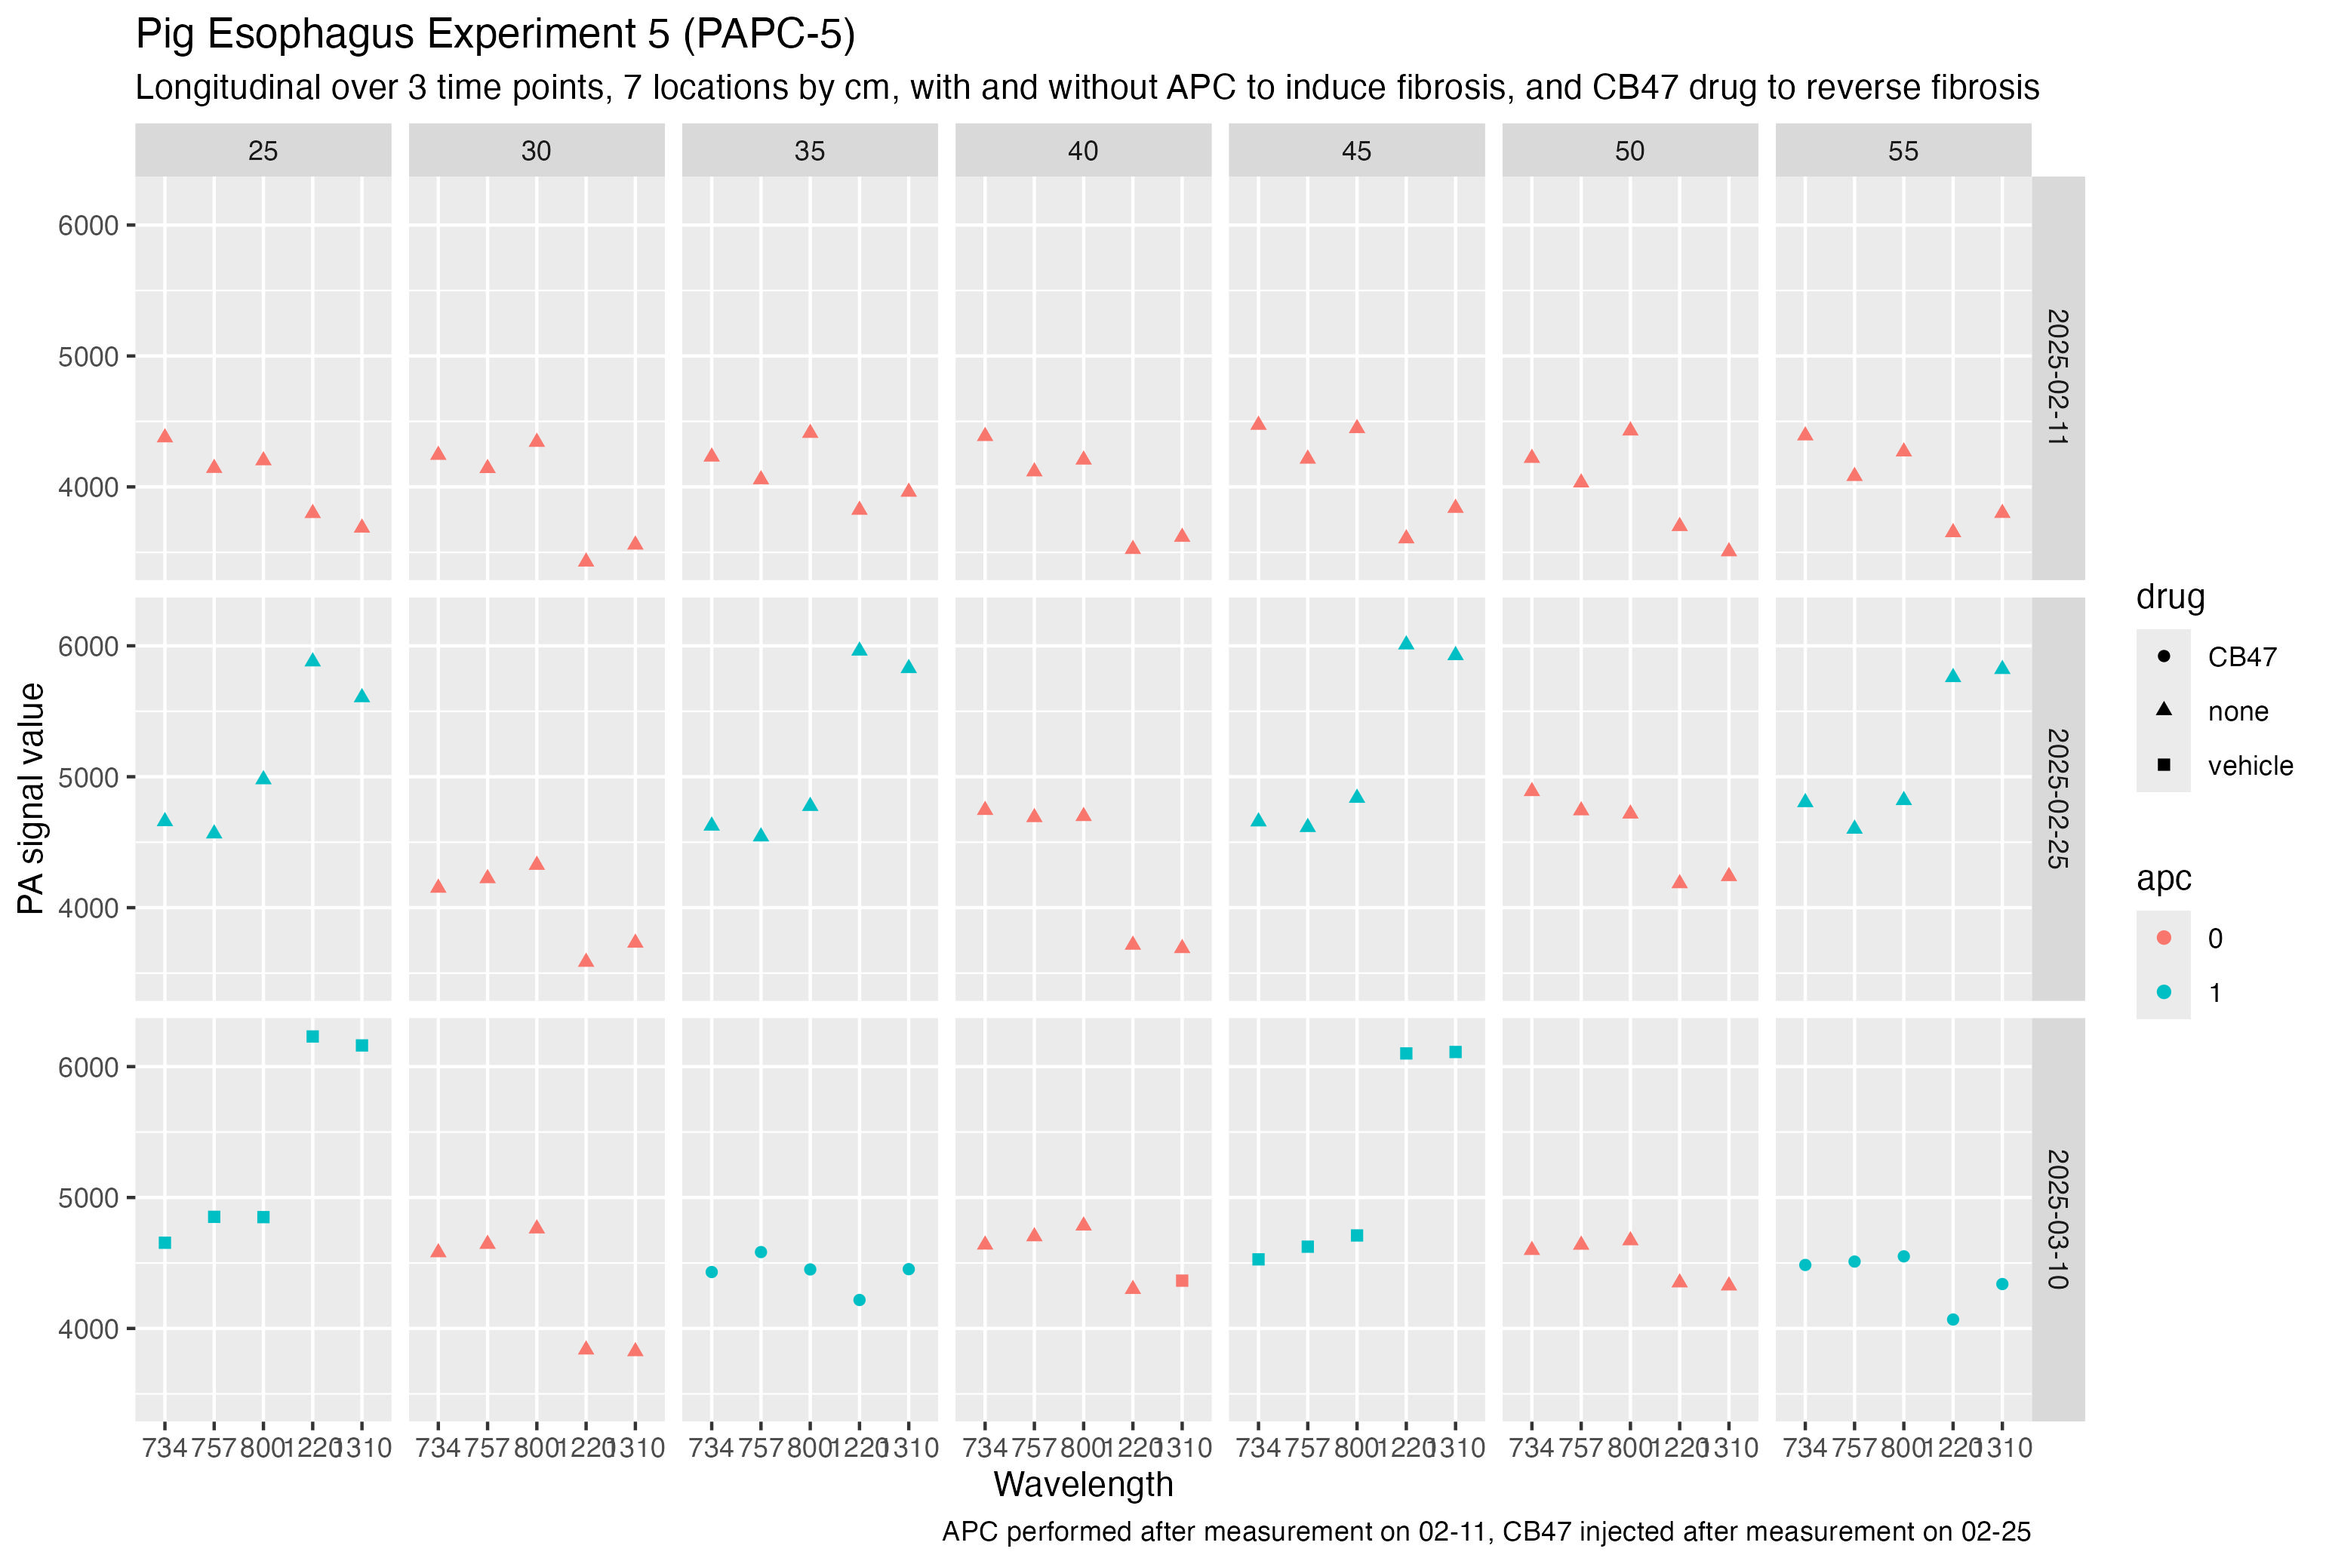
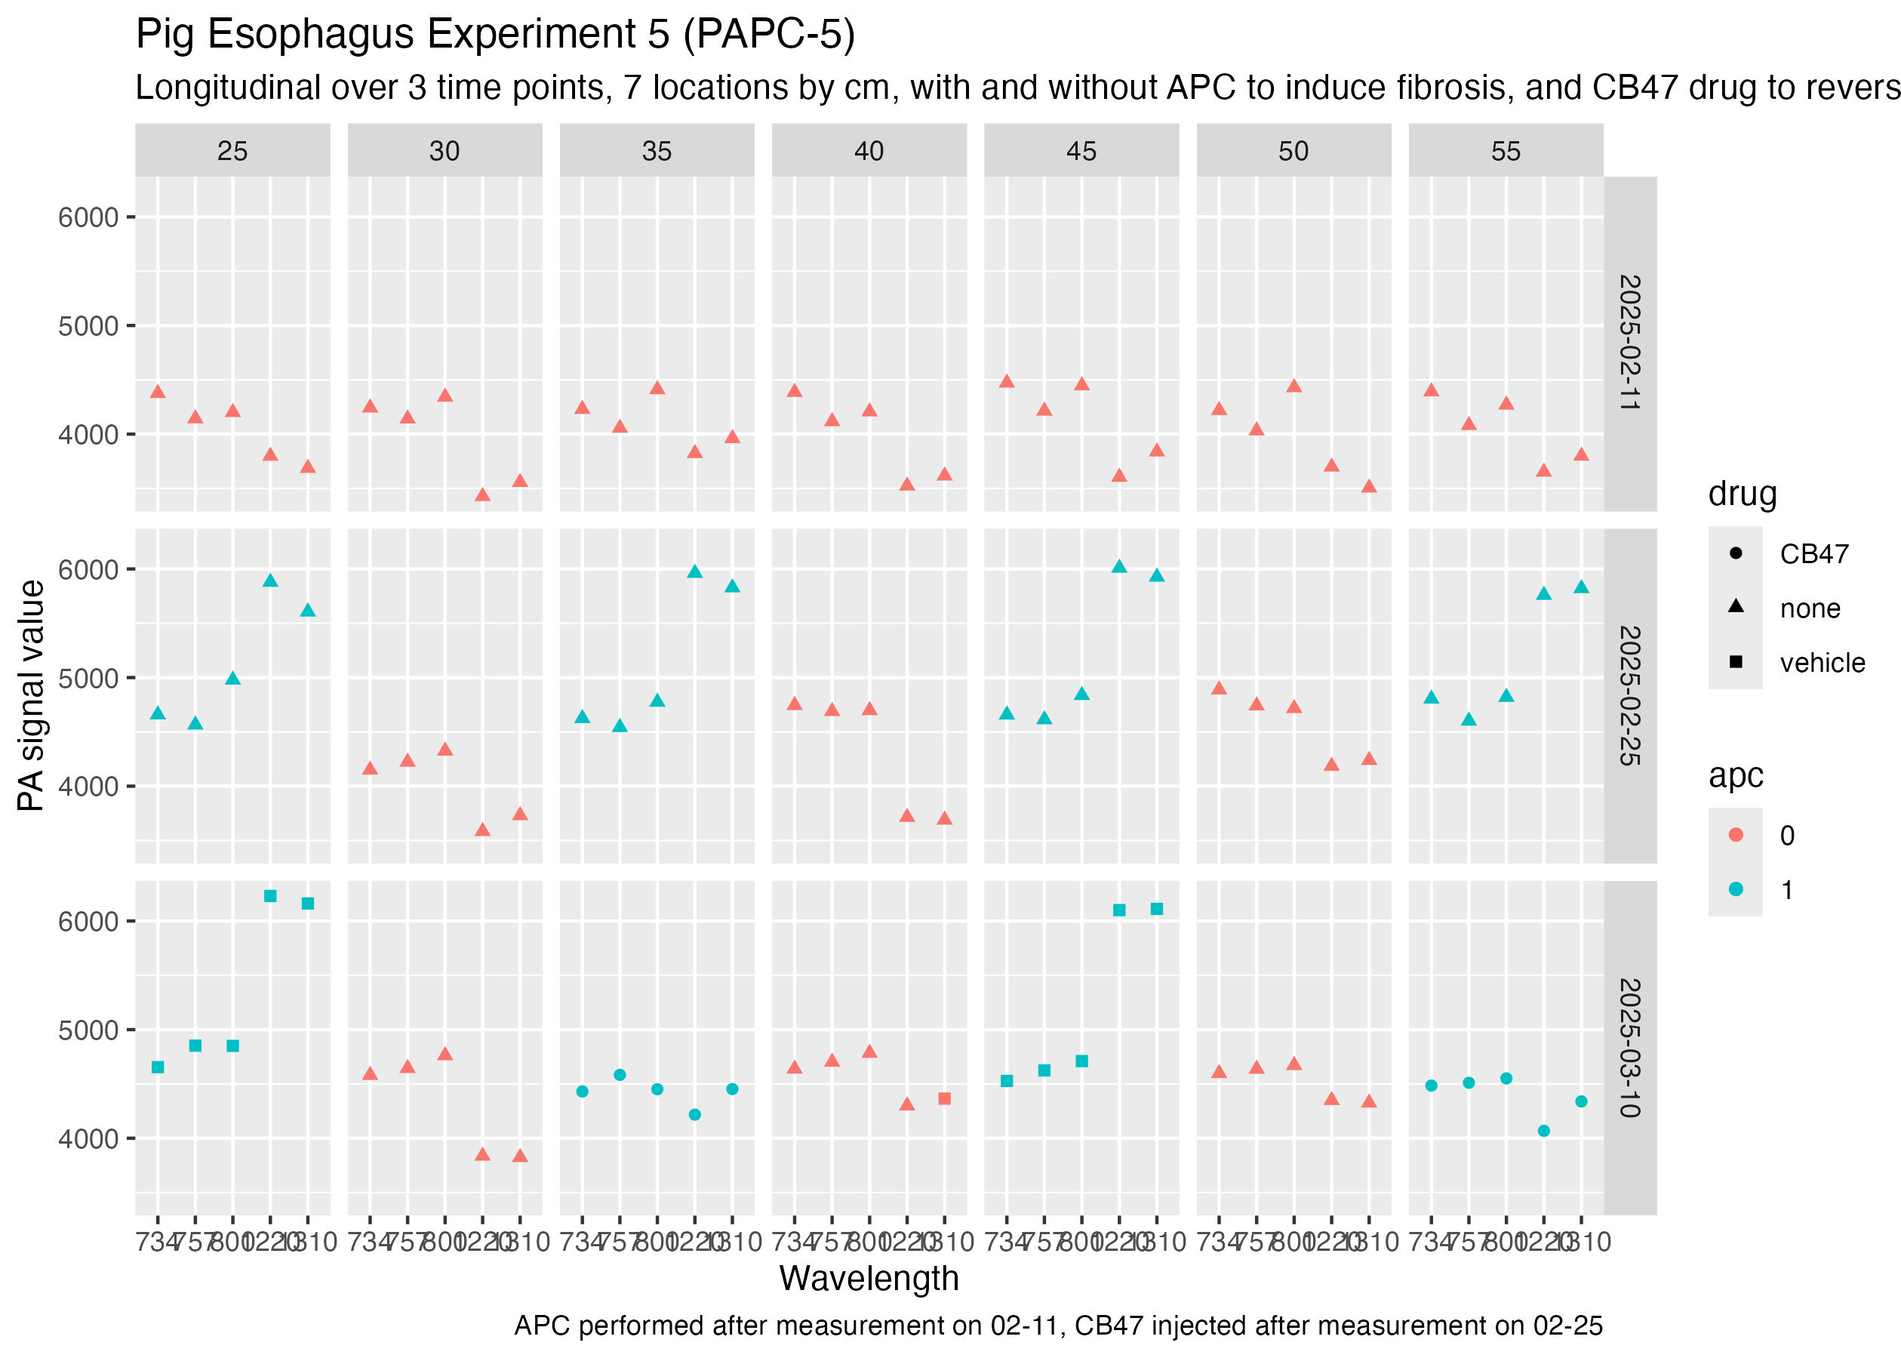
fixed up colors

diff --git a/pig_pa_results.html b/pig_pa_results.html
@@ -155,15 +155,18 @@ The following objects are masked from 'package:stats':
 <span id="cb9-9"><a href="#cb9-9" aria-hidden="true" tabindex="-1"></a>  <span class="fu">rename</span>(<span class="at">value =</span> measurement_value) <span class="sc">|&gt;</span> </span>
 <span id="cb9-10"><a href="#cb9-10" aria-hidden="true" tabindex="-1"></a>  <span class="fu">mutate</span>(<span class="at">apc =</span> <span class="fu">factor</span>(treated)) <span class="sc">|&gt;</span> </span>
 <span id="cb9-11"><a href="#cb9-11" aria-hidden="true" tabindex="-1"></a>  <span class="fu">mutate</span>(<span class="at">date =</span> lubridate<span class="sc">::</span><span class="fu">ymd</span>(date)) <span class="sc">|&gt;</span> </span>
-<span id="cb9-12"><a href="#cb9-12" aria-hidden="true" tabindex="-1"></a>  <span class="fu">select</span>(date, site_cm, apc, wavelength, drug, value) <span class="sc">|&gt;</span> </span>
-<span id="cb9-13"><a href="#cb9-13" aria-hidden="true" tabindex="-1"></a>  <span class="fu">ggplot</span>(<span class="fu">aes</span>(<span class="at">x =</span> <span class="fu">factor</span>(wavelength), <span class="at">y =</span> <span class="fu">as.numeric</span>(value), </span>
-<span id="cb9-14"><a href="#cb9-14" aria-hidden="true" tabindex="-1"></a>             <span class="at">color =</span> apc, <span class="at">shape =</span> drug)) <span class="sc">+</span> </span>
-<span id="cb9-15"><a href="#cb9-15" aria-hidden="true" tabindex="-1"></a>  <span class="fu">geom_point</span>() <span class="sc">+</span></span>
-<span id="cb9-16"><a href="#cb9-16" aria-hidden="true" tabindex="-1"></a>  <span class="fu">facet_grid</span>(date <span class="sc">~</span> site_cm) <span class="sc">+</span></span>
-<span id="cb9-17"><a href="#cb9-17" aria-hidden="true" tabindex="-1"></a>  <span class="fu">labs</span>(<span class="at">title =</span> <span class="st">"Pig Esophagus Experiment 5 (PAPC-5)"</span>,</span>
-<span id="cb9-18"><a href="#cb9-18" aria-hidden="true" tabindex="-1"></a>       <span class="at">subtitle =</span> <span class="st">"Longitudinal over 3 time points, 7 locations by cm, with and without APC to induce fibrosis, and CB47 drug to reverse fibrosis"</span>,</span>
-<span id="cb9-19"><a href="#cb9-19" aria-hidden="true" tabindex="-1"></a>       <span class="at">x =</span> <span class="st">"Wavelength"</span>, <span class="at">y =</span> <span class="st">"PA signal value"</span>,</span>
-<span id="cb9-20"><a href="#cb9-20" aria-hidden="true" tabindex="-1"></a>       <span class="at">caption =</span> <span class="st">"APC performed after measurement on 02-11, CB47 injected after measurement on 02-25"</span> )</span></code><button title="Copy to Clipboard" class="code-copy-button"><i class="bi"></i></button></pre></div>
+<span id="cb9-12"><a href="#cb9-12" aria-hidden="true" tabindex="-1"></a>  <span class="fu">select</span>(date, site_cm, apc, wavelength, drug, value) <span class="ot">-&gt;</span></span>
+<span id="cb9-13"><a href="#cb9-13" aria-hidden="true" tabindex="-1"></a>clean_pig_data</span>
+<span id="cb9-14"><a href="#cb9-14" aria-hidden="true" tabindex="-1"></a></span>
+<span id="cb9-15"><a href="#cb9-15" aria-hidden="true" tabindex="-1"></a>clean_pig_data <span class="sc">|&gt;</span> </span>
+<span id="cb9-16"><a href="#cb9-16" aria-hidden="true" tabindex="-1"></a>  <span class="fu">ggplot</span>(<span class="fu">aes</span>(<span class="at">x =</span> <span class="fu">factor</span>(wavelength), <span class="at">y =</span> <span class="fu">as.numeric</span>(value), </span>
+<span id="cb9-17"><a href="#cb9-17" aria-hidden="true" tabindex="-1"></a>             <span class="at">color =</span> apc, <span class="at">shape =</span> drug)) <span class="sc">+</span> </span>
+<span id="cb9-18"><a href="#cb9-18" aria-hidden="true" tabindex="-1"></a>  <span class="fu">geom_point</span>() <span class="sc">+</span></span>
+<span id="cb9-19"><a href="#cb9-19" aria-hidden="true" tabindex="-1"></a>  <span class="fu">facet_grid</span>(date <span class="sc">~</span> site_cm) <span class="sc">+</span></span>
+<span id="cb9-20"><a href="#cb9-20" aria-hidden="true" tabindex="-1"></a>  <span class="fu">labs</span>(<span class="at">title =</span> <span class="st">"Pig Esophagus Experiment 5 (PAPC-5)"</span>,</span>
+<span id="cb9-21"><a href="#cb9-21" aria-hidden="true" tabindex="-1"></a>       <span class="at">subtitle =</span> <span class="st">"Longitudinal over 3 time points, 7 locations by cm, with and without APC to induce fibrosis, and CB47 drug to reverse fibrosis"</span>,</span>
+<span id="cb9-22"><a href="#cb9-22" aria-hidden="true" tabindex="-1"></a>       <span class="at">x =</span> <span class="st">"Wavelength"</span>, <span class="at">y =</span> <span class="st">"PA signal value"</span>,</span>
+<span id="cb9-23"><a href="#cb9-23" aria-hidden="true" tabindex="-1"></a>       <span class="at">caption =</span> <span class="st">"APC performed after measurement on 02-11, CB47 injected after measurement on 02-25"</span> )</span></code><button title="Copy to Clipboard" class="code-copy-button"><i class="bi"></i></button></pre></div>
 <div class="cell-output-display">
 <div>
 <figure class="figure">
@@ -183,6 +186,37 @@ The following objects are masked from 'package:stats':
 </div>
 </div>
 <p>The <code>echo: false</code> option disables the printing of code (only output is displayed).</p>
+<div class="cell">
+<div class="sourceCode cell-code" id="cb13"><pre class="sourceCode r code-with-copy"><code class="sourceCode r"><span id="cb13-1"><a href="#cb13-1" aria-hidden="true" tabindex="-1"></a>clean_pig_data <span class="sc">|&gt;</span> </span>
+<span id="cb13-2"><a href="#cb13-2" aria-hidden="true" tabindex="-1"></a>  <span class="fu">filter</span>(site_cm <span class="sc">==</span> <span class="dv">35</span> <span class="sc">|</span> site_cm <span class="sc">==</span> <span class="dv">45</span>) <span class="sc">|&gt;</span> </span>
+<span id="cb13-3"><a href="#cb13-3" aria-hidden="true" tabindex="-1"></a>  <span class="fu">filter</span>(wavelength <span class="sc">==</span> <span class="dv">1310</span>) <span class="sc">|&gt;</span>  </span>
+<span id="cb13-4"><a href="#cb13-4" aria-hidden="true" tabindex="-1"></a>  <span class="fu">mutate</span>(<span class="at">week =</span> <span class="fu">case_when</span>(date <span class="sc">==</span> <span class="st">'2025-02-11'</span> <span class="sc">~</span> <span class="dv">0</span>, date <span class="sc">==</span> <span class="st">'2025-02-25'</span> <span class="sc">~</span> <span class="dv">2</span>, <span class="cn">TRUE</span> <span class="sc">~</span> <span class="dv">4</span>)) <span class="sc">|&gt;</span> </span>
+<span id="cb13-5"><a href="#cb13-5" aria-hidden="true" tabindex="-1"></a>  <span class="fu">ggplot</span>(<span class="fu">aes</span>(<span class="at">x =</span> <span class="fu">as_factor</span>(week), <span class="at">y =</span> <span class="fu">as.numeric</span>(value), <span class="at">fill =</span> <span class="fu">fct_rev</span>(<span class="fu">as_factor</span>(site_cm)))) <span class="sc">+</span> <span class="fu">geom_col</span>(<span class="at">position =</span> <span class="st">'dodge2'</span>) <span class="sc">+</span></span>
+<span id="cb13-6"><a href="#cb13-6" aria-hidden="true" tabindex="-1"></a>  <span class="fu">labs</span>(<span class="at">y =</span> <span class="st">"Collagen in Wall"</span>,</span>
+<span id="cb13-7"><a href="#cb13-7" aria-hidden="true" tabindex="-1"></a>       <span class="at">x =</span> <span class="st">"Week"</span>,</span>
+<span id="cb13-8"><a href="#cb13-8" aria-hidden="true" tabindex="-1"></a>       <span class="at">title =</span> <span class="st">"Effect of APC on Pig Esophageal Fibrosis and</span><span class="sc">\n</span><span class="st">Reversibility with CB47 Stricture Injection"</span>) <span class="sc">+</span></span>
+<span id="cb13-9"><a href="#cb13-9" aria-hidden="true" tabindex="-1"></a>  <span class="fu">annotate</span>(<span class="st">"text"</span>, <span class="at">x=</span><span class="dv">1</span>, <span class="at">y=</span><span class="dv">4200</span>, <span class="at">label =</span> <span class="st">"Before Treatment"</span>) <span class="sc">+</span></span>
+<span id="cb13-10"><a href="#cb13-10" aria-hidden="true" tabindex="-1"></a>  <span class="fu">annotate</span>(<span class="st">"text"</span>, <span class="at">x=</span><span class="dv">2</span>, <span class="at">y=</span><span class="dv">6100</span>, <span class="at">label =</span> <span class="st">"After Fibrosis"</span>) <span class="sc">+</span></span>
+<span id="cb13-11"><a href="#cb13-11" aria-hidden="true" tabindex="-1"></a>  <span class="fu">annotate</span>(<span class="st">"text"</span>, <span class="at">x=</span><span class="dv">3</span>, <span class="at">y=</span><span class="dv">6800</span>, <span class="at">label =</span> <span class="st">"After Drug Treatment"</span>) <span class="sc">+</span></span>
+<span id="cb13-12"><a href="#cb13-12" aria-hidden="true" tabindex="-1"></a>  <span class="fu">annotate</span>(<span class="st">"text"</span>, <span class="at">x=</span><span class="fl">3.24</span>, <span class="at">y=</span><span class="dv">4650</span>, <span class="at">label =</span> <span class="st">"CB47 Treatment"</span>) <span class="sc">+</span></span>
+<span id="cb13-13"><a href="#cb13-13" aria-hidden="true" tabindex="-1"></a>  <span class="fu">annotate</span>(<span class="st">"text"</span>, <span class="at">x=</span><span class="fl">2.78</span>, <span class="at">y=</span><span class="dv">6300</span>, <span class="at">label =</span> <span class="st">"Control"</span>) <span class="sc">+</span></span>
+<span id="cb13-14"><a href="#cb13-14" aria-hidden="true" tabindex="-1"></a>  <span class="fu">annotate</span>(<span class="st">"text"</span>, <span class="at">x=</span><span class="fl">0.78</span>, <span class="at">y=</span><span class="dv">200</span>, <span class="at">label =</span> <span class="st">"45 cm"</span>) <span class="sc">+</span></span>
+<span id="cb13-15"><a href="#cb13-15" aria-hidden="true" tabindex="-1"></a>  <span class="fu">annotate</span>(<span class="st">"text"</span>, <span class="at">x=</span><span class="fl">1.78</span>, <span class="at">y=</span><span class="dv">200</span>, <span class="at">label =</span> <span class="st">"45 cm"</span>) <span class="sc">+</span></span>
+<span id="cb13-16"><a href="#cb13-16" aria-hidden="true" tabindex="-1"></a>  <span class="fu">annotate</span>(<span class="st">"text"</span>, <span class="at">x=</span><span class="fl">2.78</span>, <span class="at">y=</span><span class="dv">200</span>, <span class="at">label =</span> <span class="st">"45 cm"</span>) <span class="sc">+</span></span>
+<span id="cb13-17"><a href="#cb13-17" aria-hidden="true" tabindex="-1"></a>  <span class="fu">annotate</span>(<span class="st">"text"</span>, <span class="at">x=</span><span class="fl">1.22</span>, <span class="at">y=</span><span class="dv">200</span>, <span class="at">label =</span> <span class="st">"35 cm"</span>) <span class="sc">+</span></span>
+<span id="cb13-18"><a href="#cb13-18" aria-hidden="true" tabindex="-1"></a>  <span class="fu">annotate</span>(<span class="st">"text"</span>, <span class="at">x=</span><span class="fl">2.22</span>, <span class="at">y=</span><span class="dv">200</span>, <span class="at">label =</span> <span class="st">"35 cm"</span>) <span class="sc">+</span></span>
+<span id="cb13-19"><a href="#cb13-19" aria-hidden="true" tabindex="-1"></a>  <span class="fu">annotate</span>(<span class="st">"text"</span>, <span class="at">x=</span><span class="fl">3.22</span>, <span class="at">y=</span><span class="dv">200</span>, <span class="at">label =</span> <span class="st">"35 cm"</span>) <span class="sc">+</span></span>
+<span id="cb13-20"><a href="#cb13-20" aria-hidden="true" tabindex="-1"></a>  <span class="fu">theme_linedraw</span>(<span class="at">base_size =</span> <span class="dv">14</span>) <span class="sc">+</span></span>
+<span id="cb13-21"><a href="#cb13-21" aria-hidden="true" tabindex="-1"></a>  <span class="fu">theme</span>(<span class="at">legend.position =</span> <span class="st">"none"</span>) <span class="sc">+</span></span>
+<span id="cb13-22"><a href="#cb13-22" aria-hidden="true" tabindex="-1"></a>  <span class="fu">scale_fill_manual</span>(<span class="at">values =</span> <span class="fu">c</span>(<span class="st">"gray75"</span>, <span class="st">"green"</span>))</span></code><button title="Copy to Clipboard" class="code-copy-button"><i class="bi"></i></button></pre></div>
+<div class="cell-output-display">
+<div>
+<figure class="figure">
+<p><img src="pig_pa_results_files/figure-html/unnamed-chunk-5-1.png" class="img-fluid figure-img" width="672"></p>
+</figure>
+</div>
+</div>
+</div>
 </section>
 
 </main>
